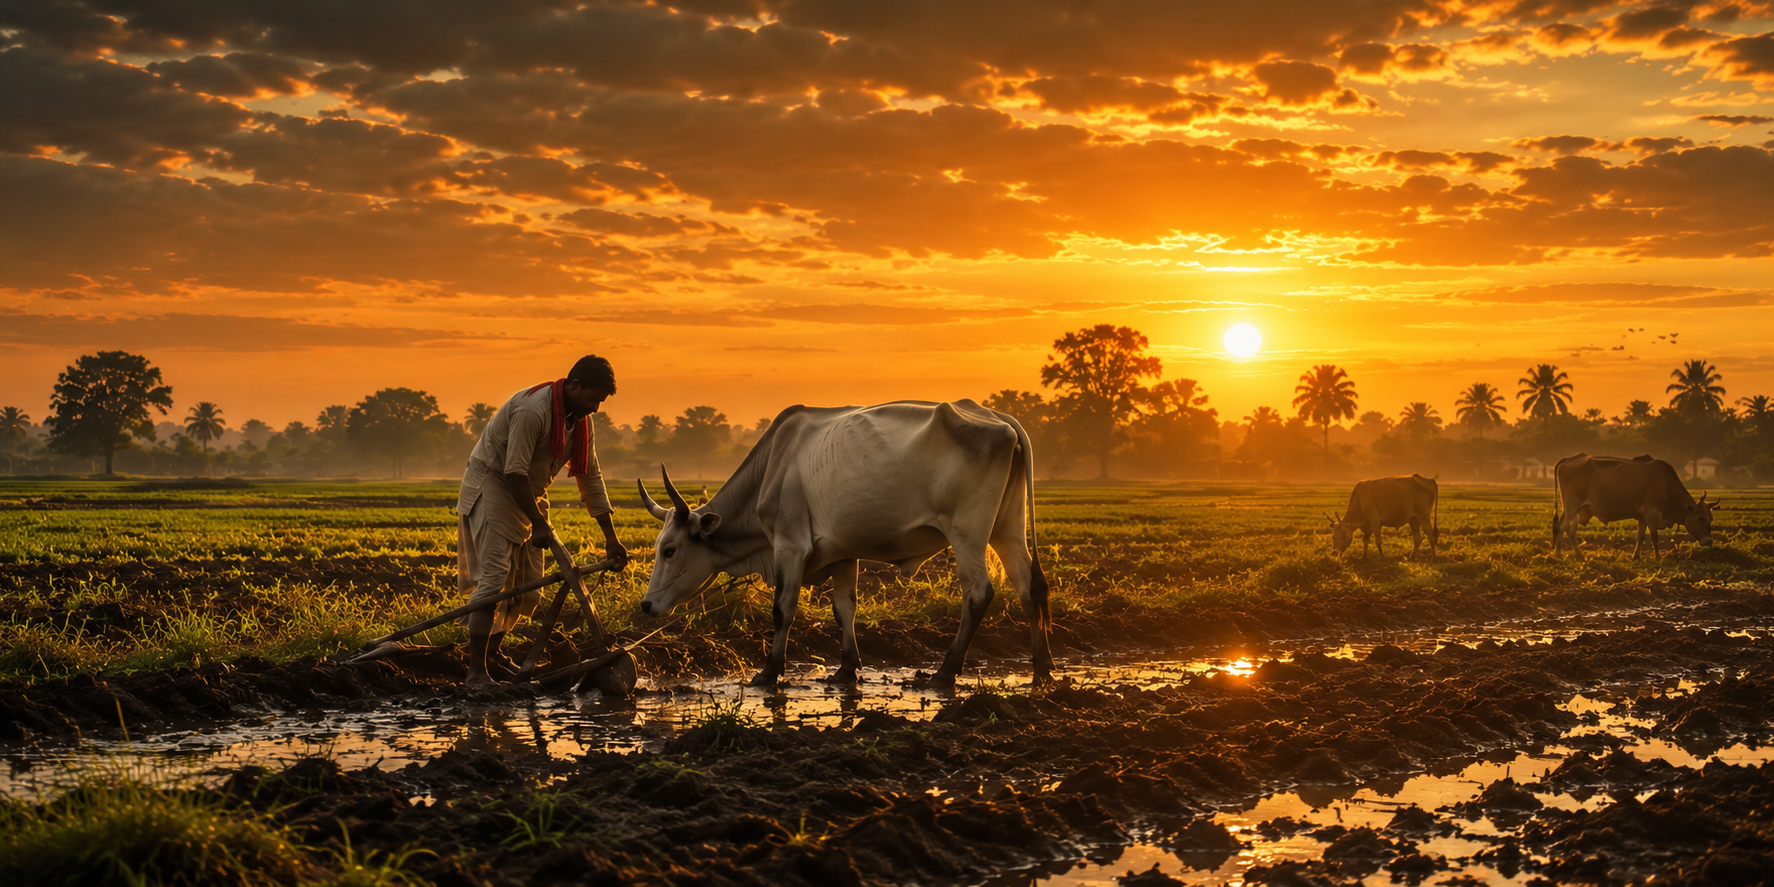
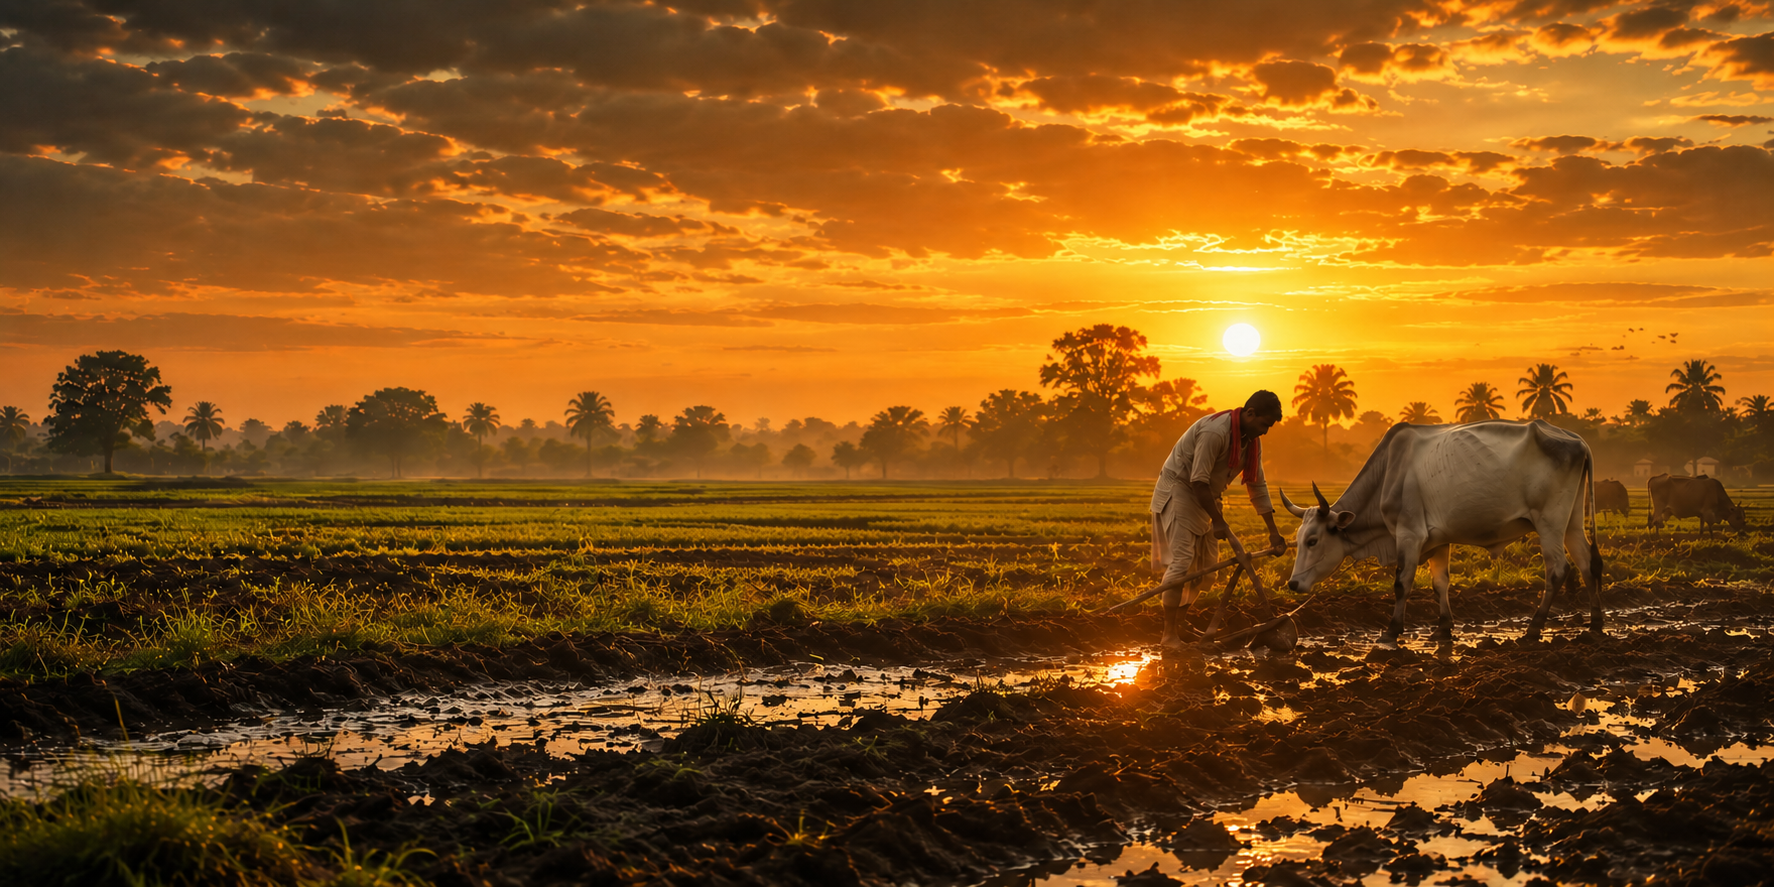
version 59

diff --git a/src/components/AgriSector.css b/src/components/AgriSector.css
@@ -590,13 +590,14 @@
 .agri-trend-banner {
   position: relative;
   width: 100%;
-  max-width: 1200px;
-  margin: 60px auto;
+  max-width: 100%;
+  margin: 80px 0;
   min-height: 360px;
-  border-radius: 16px;
+  border-radius: 0;
   overflow: hidden;
   box-shadow: 0 20px 48px rgba(5, 15, 5, 0.09);
-  border: 1px solid rgba(255, 255, 255, 0.08);
+  border-top: 1px solid rgba(255, 255, 255, 0.08);
+  border-bottom: 1px solid rgba(255, 255, 255, 0.08);
 }
 
 .agri-trend-img {
@@ -605,7 +606,6 @@
   left: 0;
   width: 100%;
   height: 100%;
-  object-fit: cover;
   object-position: center;
   z-index: 1;
   transition: transform 0.6s cubic-bezier(0.16, 1, 0.3, 1);
@@ -620,7 +620,7 @@
   z-index: 2;
   width: 100%;
   min-height: 360px;
-  background: linear-gradient(90deg, rgba(4, 20, 10, 0.9) 0%, rgba(4, 20, 10, 0.65) 45%, rgba(4, 20, 10, 0.1) 100%);
+  background: linear-gradient(90deg, rgba(4, 20, 10, 0.9) 0%, rgba(4, 20, 10, 0.5) 35%, rgba(4, 20, 10, 0) 70%);
   display: flex;
   align-items: center;
   padding: 60px 44px;
@@ -634,7 +634,7 @@
 }
 
 .agri-trend-content {
-  max-width: 600px;
+  max-width: 500px;
 }
 
 .agri-trend-content>span {
@@ -648,7 +648,7 @@
   margin-bottom: 16px;
   border: 1px solid rgba(217, 249, 157, 0.35);
   padding: 5px 12px;
-  border-radius: 4px;
+  border-radius: 100px;
   background: rgba(217, 249, 157, 0.1);
 }
 

diff --git a/src/components/BiotechSector.css b/src/components/BiotechSector.css
@@ -369,13 +369,14 @@
 .biotech-trend-banner {
   position: relative;
   width: 100%;
-  max-width: 1200px;
-  margin: 60px auto;
+  max-width: 100%;
+  margin: 80px 0;
   min-height: 360px;
-  border-radius: 16px;
+  border-radius: 0;
   overflow: hidden;
   box-shadow: 0 20px 48px rgba(2, 9, 23, 0.09);
-  border: 1px solid rgba(255, 255, 255, 0.08);
+  border-top: 1px solid rgba(255, 255, 255, 0.08);
+  border-bottom: 1px solid rgba(255, 255, 255, 0.08);
 }
 
 /* Background animated blobs for Biotech overlay on the image background */
@@ -430,7 +431,6 @@
 .biotech-trend-img {
   width: 100%;
   height: 100%;
-  object-fit: cover;
   object-position: center;
   border-left: none;
   transition: transform 0.6s cubic-bezier(0.16, 1, 0.3, 1);
@@ -445,7 +445,7 @@
   z-index: 3;
   width: 100%;
   min-height: 360px;
-  background: linear-gradient(90deg, rgba(2, 9, 23, 0.9) 0%, rgba(2, 9, 23, 0.65) 45%, rgba(2, 9, 23, 0.1) 100%);
+  background: linear-gradient(90deg, rgba(2, 9, 23, 0.9) 0%, rgba(2, 9, 23, 0.5) 35%, rgba(2, 9, 23, 0) 70%);
   display: flex;
   flex-direction: column;
   justify-content: space-between;
@@ -1158,7 +1158,7 @@
 }
 
 .biotech-trend-content {
-  max-width: 600px;
+  max-width: 500px;
 }
 
 .biotech-trend-content>span {
@@ -1172,7 +1172,7 @@
   margin-bottom: 16px;
   border: 1px solid rgba(148, 246, 208, 0.35);
   padding: 5px 12px;
-  border-radius: 4px;
+  border-radius: 100px;
   background: rgba(148, 246, 208, 0.1);
 }
 

diff --git a/src/components/FoodBeverage.css b/src/components/FoodBeverage.css
@@ -659,13 +659,14 @@
 .food-trend-banner {
   position: relative;
   width: 100%;
-  max-width: 1200px;
-  margin: 60px auto;
+  max-width: 100%;
+  margin: 80px 0;
   min-height: 360px;
-  border-radius: 16px;
+  border-radius: 0;
   overflow: hidden;
   box-shadow: 0 20px 48px rgba(28, 15, 2, 0.09);
-  border: 1px solid rgba(255, 255, 255, 0.08);
+  border-top: 1px solid rgba(255, 255, 255, 0.08);
+  border-bottom: 1px solid rgba(255, 255, 255, 0.08);
 }
 
 .food-trend-img {
@@ -674,7 +675,6 @@
   left: 0;
   width: 100%;
   height: 100%;
-  object-fit: cover;
   object-position: center;
   z-index: 1;
   transition: transform 0.6s cubic-bezier(0.16, 1, 0.3, 1);
@@ -689,7 +689,7 @@
   z-index: 2;
   width: 100%;
   min-height: 360px;
-  background: linear-gradient(90deg, rgba(23, 10, 3, 0.9) 0%, rgba(23, 10, 3, 0.65) 45%, rgba(23, 10, 3, 0.1) 100%);
+  background: linear-gradient(90deg, rgba(23, 10, 3, 0.9) 0%, rgba(23, 10, 3, 0.5) 35%, rgba(23, 10, 3, 0) 70%);
   display: flex;
   align-items: center;
   padding: 60px 44px;
@@ -703,7 +703,7 @@
 }
 
 .food-trend-content {
-  max-width: 600px;
+  max-width: 500px;
 }
 
 .food-trend-content>span {
@@ -717,7 +717,7 @@
   margin-bottom: 16px;
   border: 1px solid rgba(253, 230, 138, 0.35);
   padding: 5px 12px;
-  border-radius: 4px;
+  border-radius: 100px;
   background: rgba(253, 230, 138, 0.1);
 }
 

diff --git a/src/components/RealEstateSector.css b/src/components/RealEstateSector.css
@@ -1010,13 +1010,14 @@
 .real-fdi-banner {
   position: relative;
   width: 100%;
-  max-width: 1200px;
-  margin: 60px auto;
+  max-width: 100%;
+  margin: 80px 0;
   min-height: 360px;
-  border-radius: 16px;
+  border-radius: 0;
   overflow: hidden;
   box-shadow: 0 20px 48px rgba(2, 14, 20, 0.09);
-  border: 1px solid rgba(255, 255, 255, 0.08);
+  border-top: 1px solid rgba(255, 255, 255, 0.08);
+  border-bottom: 1px solid rgba(255, 255, 255, 0.08);
 }
 
 /* Background animated blobs for Real Estate overlay on the image background */
@@ -1071,7 +1072,6 @@
 .real-fdi-banner img {
   width: 100%;
   height: 100%;
-  object-fit: cover;
   object-position: center;
   border-left: none;
   transition: transform 0.6s cubic-bezier(0.16, 1, 0.3, 1);
@@ -1086,7 +1086,7 @@
   z-index: 3;
   width: 100%;
   min-height: 360px;
-  background: linear-gradient(90deg, rgba(2, 14, 20, 0.9) 0%, rgba(2, 14, 20, 0.65) 45%, rgba(2, 14, 20, 0.1) 100%);
+  background: linear-gradient(90deg, rgba(2, 14, 20, 0.9) 0%, rgba(2, 14, 20, 0.5) 35%, rgba(2, 14, 20, 0) 70%);
   display: flex;
   align-items: center;
   padding: 60px 44px;
@@ -1101,7 +1101,7 @@
 
 .real-fdi-insight {
   position: relative;
-  max-width: 100%;
+  max-width: 500px;
   display: flex;
   flex-direction: column;
   align-items: flex-start;
@@ -1129,7 +1129,7 @@
   margin-bottom: 16px;
   border: 1px solid rgba(20, 168, 168, 0.25);
   padding: 4px 10px;
-  border-radius: 4px;
+  border-radius: 100px;
   background: rgba(20, 168, 168, 0.06);
   writing-mode: horizontal-tb;
   transform: none;